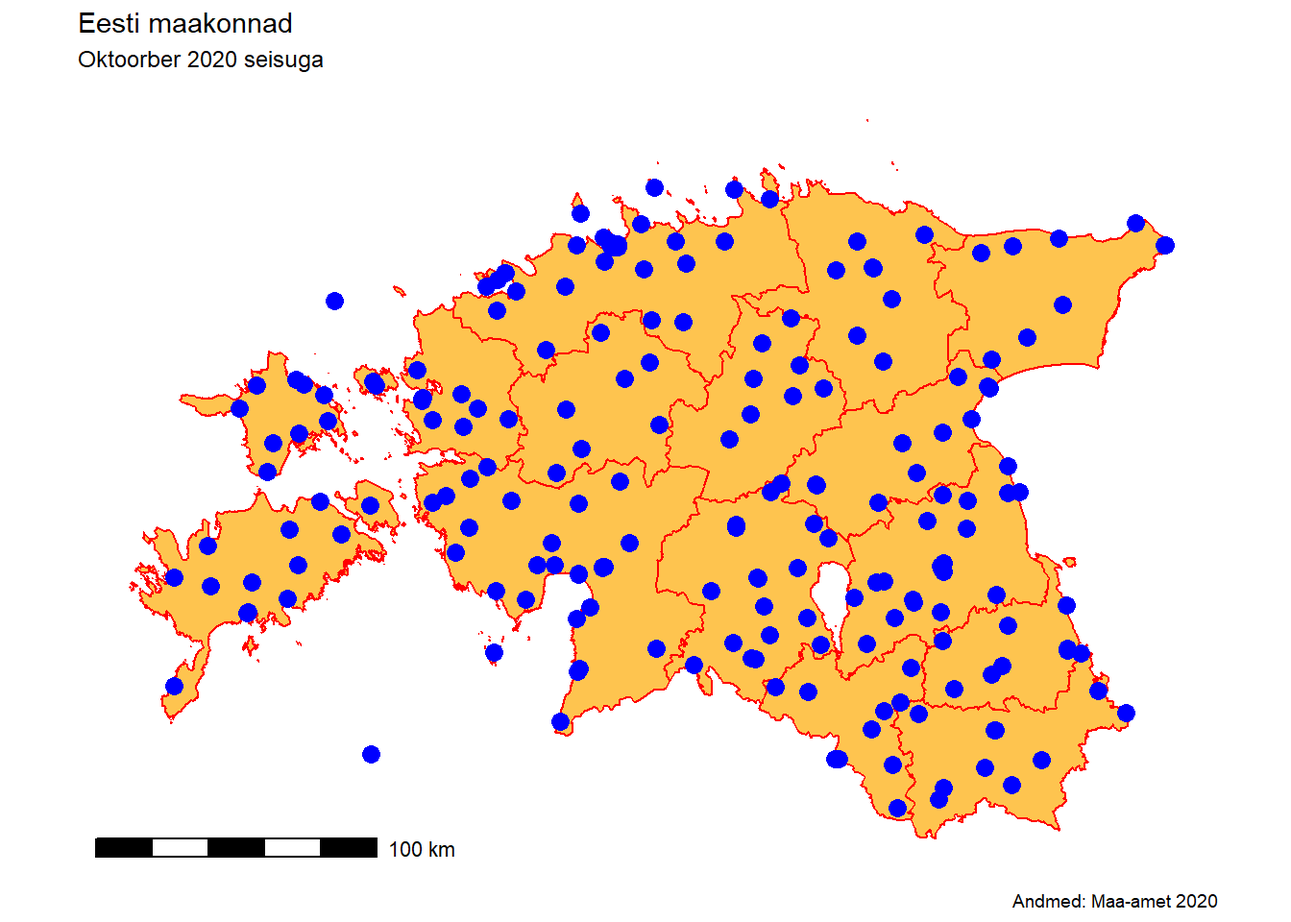
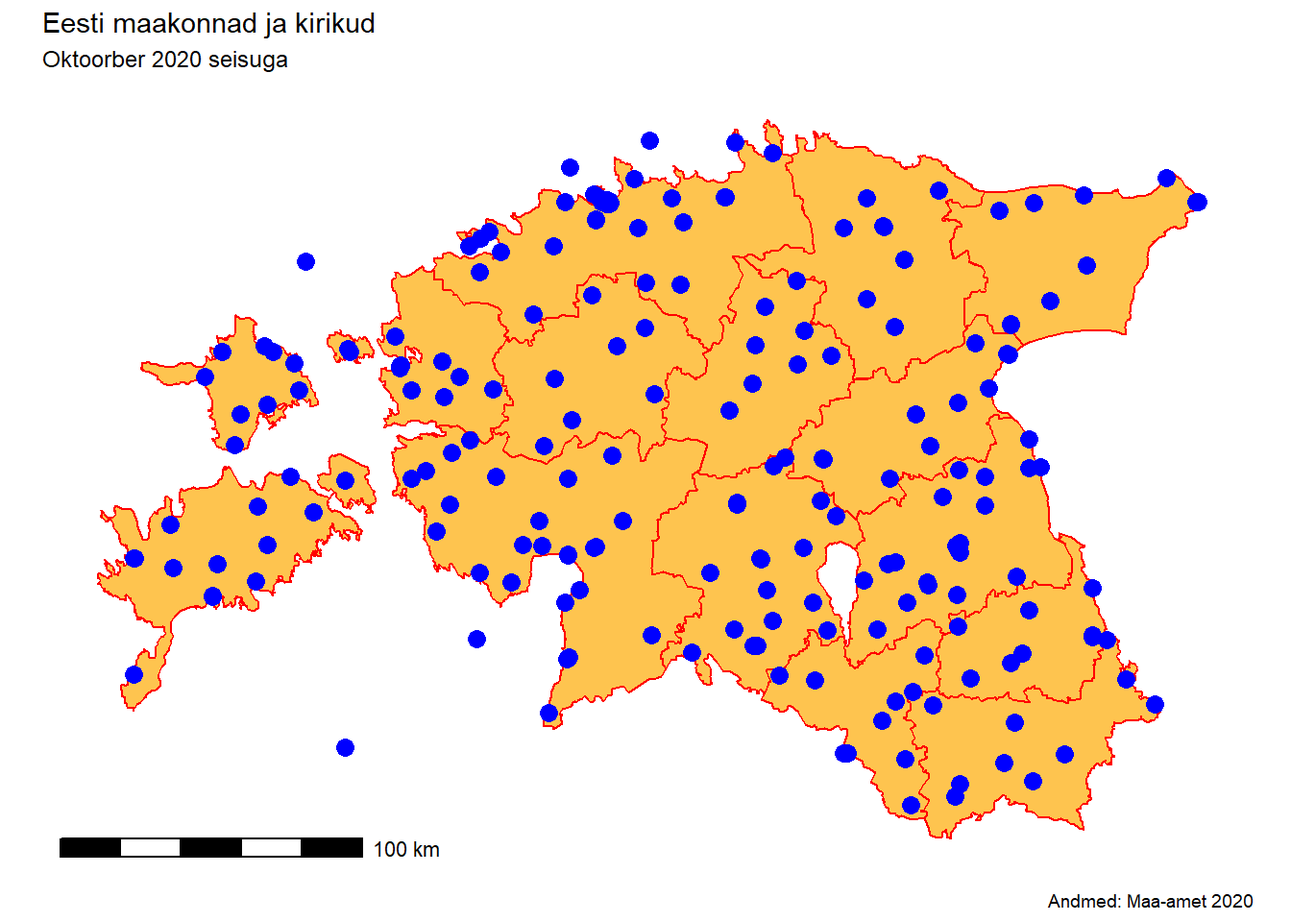
praktikum 20 täiendusi

diff --git a/_book/r.html b/_book/r.html
@@ -31,7 +31,7 @@
   
   
 <link rel="prev" href="veebikaardid.html"/>
-<link rel="next" href="kirjandus.html"/>
+<link rel="next" href="r2.html"/>
 <script src="libs/jquery-2.2.3/jquery.min.js"></script>
 <link href="libs/gitbook-2.6.7/css/style.css" rel="stylesheet" />
 <link href="libs/gitbook-2.6.7/css/plugin-table.css" rel="stylesheet" />
@@ -310,11 +310,18 @@ code span.wa { color: #60a0b0; font-weight: bold; font-style: italic; } /* Warni
 <li class="chapter" data-level="20.5" data-path="r.html"><a href="r.html#ruumiandmed"><i class="fa fa-check"></i><b>20.5</b> Ruumiandmed</a><ul>
 <li class="chapter" data-level="20.5.1" data-path="qgis-1.html"><a href="qgis-1.html#andmete-avamine"><i class="fa fa-check"></i><b>20.5.1</b> Andmete avamine</a></li>
 <li class="chapter" data-level="20.5.2" data-path="r.html"><a href="r.html#kaartide-tegemine"><i class="fa fa-check"></i><b>20.5.2</b> Kaartide tegemine</a></li>
-<li class="chapter" data-level="20.5.3" data-path="r.html"><a href="r.html#andmete-filtreerimine"><i class="fa fa-check"></i><b>20.5.3</b> Andmete filtreerimine</a></li>
+<li class="chapter" data-level="20.5.3" data-path="r.html"><a href="r.html#andmete-filtreerimine-ja-ühendamine"><i class="fa fa-check"></i><b>20.5.3</b> Andmete filtreerimine ja ühendamine</a></li>
 <li class="chapter" data-level="20.5.4" data-path="ruumiobjektid.html"><a href="ruumiobjektid.html#ülesanne"><i class="fa fa-check"></i><b>20.5.4</b> Ülesanne</a></li>
 <li class="chapter" data-level="20.5.5" data-path="r.html"><a href="r.html#kaartide-eksportimine"><i class="fa fa-check"></i><b>20.5.5</b> Kaartide eksportimine</a></li>
 </ul></li>
 <li class="chapter" data-level="20.6" data-path="r.html"><a href="r.html#r-i-raamatud-ja-juhendid"><i class="fa fa-check"></i><b>20.6</b> R-i raamatud ja juhendid</a></li>
+</ul></li>
+<li class="chapter" data-level="21" data-path="r2.html"><a href="r2.html"><i class="fa fa-check"></i><b>21</b> Ruumiandmete analüüs R-iga 2</a><ul>
+<li class="chapter" data-level="21.1" data-path="r2.html"><a href="r2.html#pakettide-laadimine-ja-andmete-töötlemine"><i class="fa fa-check"></i><b>21.1</b> Pakettide laadimine ja andmete töötlemine</a></li>
+<li class="chapter" data-level="21.2" data-path="r2.html"><a href="r2.html#kasutajaliides"><i class="fa fa-check"></i><b>21.2</b> Kasutajaliides</a></li>
+<li class="chapter" data-level="21.3" data-path="r2.html"><a href="r2.html#server"><i class="fa fa-check"></i><b>21.3</b> Server</a></li>
+<li class="chapter" data-level="21.4" data-path="r2.html"><a href="r2.html#rakenduse-kokkupanemine"><i class="fa fa-check"></i><b>21.4</b> Rakenduse kokkupanemine</a></li>
+<li class="chapter" data-level="21.5" data-path="r2.html"><a href="r2.html#rakenduse-jagamine"><i class="fa fa-check"></i><b>21.5</b> Rakenduse jagamine</a></li>
 </ul></li>
 <li class="chapter" data-level="" data-path="kirjandus.html"><a href="kirjandus.html"><i class="fa fa-check"></i>Kirjandus</a></li>
 </ul>
@@ -339,19 +346,19 @@ code span.wa { color: #60a0b0; font-weight: bold; font-style: italic; } /* Warni
 <p>Lae Moodle’ist alla tänase praktikumi fail, paki see lahti ning aseta need failid enda selle kursuse kausta. Ava Rstudio ning seal ava fail <em>ruumiandmed_r.rmd</em>, valides ülevalt vasakust nurgast <em>File -&gt; Open file</em>.</p>
 <div id="pakettide-installimine" class="section level2">
 <h2><span class="header-section-number">20.1</span> Pakettide installimine</h2>
-<p>Kuna paljud teist kasutavad R-i esimest korda, siis kõigepealt installime vajalikud paketid. Selleks jooksuta sin all olev kood, klikkides kooditüki paremal üleval nurgas rohelisele nupule (<em>Run current chunk</em>). Selle tulemusena tõmbab R kõik vajalikud paketid ja installib need. Sellega võib minna natuke aga. Kui protsess on lõppenud, siis kaob konsooli paremas nurgas väike punane STOP-märk. Paketid tuleb alati uuesti laadida, kui oled vahepeal Rstudio sulgenud.</p>
+<p>Kuna paljud teist kasutavad R-i esimest korda, siis kõigepealt installime vajalikud paketid. Selleks jooksuta siin all olev kood, klikkides kooditüki paremal üleval nurgas rohelisele nupule (<em>Run current chunk</em>). Selle tulemusena tõmbab R kõik vajalikud paketid ja installib need. Sellega võib minna natuke aga. Kui protsess on lõppenud, siis kaob konsooli paremas nurgas väike punane STOP-märk. Paketid tuleb alati uuesti laadida, kui oled vahepeal Rstudio sulgenud.</p>
 <p>Kui paketid on installitud, siis tuleb teha veel üks väike muudatus, et faili vaatamine oleks mugavam. Nimelt ei peaks koodi jooksutamise tulemust kohe siin koodi all näitama. Selleks <em>Tools -&gt; Global options -&gt; Rmarkdown</em> ning võta ära linnuke <em>Show output inline for all Rmarkdown documents</em> eest ja seejärel all servas <em>OK</em>.</p>
-<p>Viimase asjana paneme paika <em>Working directory</em>. Siin kasutame seda peamiselt selleks, et saaks andmeid lugeda lähtuvalt nende asukohast seoses selle faili asukohaga. Sellepärast palusingi teil panna see fail samasse kausta, kus on ka teie andmete kaust. <em>Workind directory</em> seadistamiseks ülevalt menüüribalt <em>Session -&gt; Set working directory -&gt; To source file location</em>. See järel jooksuta alljärgnev kood. Kui kõik on õigesti, peaks tulemuseks olema selle faili asukoht. Minul on see näiteks “C:/teaching/geohumcourse”.</p>
+<p>Viimase asjana paneme paika <em>Working directory</em>. Siin kasutame seda peamiselt selleks, et saaks andmeid lugeda lähtuvalt nende asukohast seoses selle faili asukohaga. Sellepärast palusingi teil panna see fail samasse kausta, kus on ka teie andmete kaust. <em>Working directory</em> seadistamiseks ülevalt menüüribalt <em>Session -&gt; Set working directory -&gt; To source file location</em>. See järel jooksuta alljärgnev kood. Kui kõik on õigesti, peaks tulemuseks olema selle faili asukoht. Minul on see näiteks “C:/teaching/geohumcourse”.</p>
 </div>
 <div id="miks-teha-kaarte-koodipõhiselt" class="section level2">
 <h2><span class="header-section-number">20.2</span> Miks teha kaarte koodipõhiselt?</h2>
-<p>Miks vaevata ennast ja võib-olla ka teisi koodi õppima, kui saame (võrdlemisi) samasuguseid kaarte teha ka GISis või mõnes veebirakenduses nagu näiteks MapBox? Miks üldse midagi koodipõhiselt teha? Meie näeme, et sel on mitu eelist. Erinevalt nn musta kasti ja <em>point-and-click</em> tarkvaradest jääb koodi kirjutades selge jälg sellest, mida tehti. See aitab nii endal kui ka teistel paremini mõista, kuidas antud tulemuseni jõuti. See suhestub eelkõige teadusmaailmas <strong>reprodutseeritavuse</strong> teemadega. Samas lihtsustab kood enda tööprotsesse oluliselt. Eriti juhtudel, kus andmed võivad vahepeal täieneda või tuleb teha mitmeid sarnaseid asju. Näiteks olukord, kus tegid lõputöö või publikatsiooni jaoks kaardi ning kuu aega hiljem palub juhendaja või toimetaja paari detaili kaardil muuta. Ülejäänud kaart aga peaks jääma täpselt samaks. Samas oled vahepeal aga rohkelt enda ruumiandmetega edasi tegelenud. Millised olid täpselt kasutatud andmed, värvid, joone paksus, mõõtkava, mudeldamiseks kasutatud meetod jpm? Koodis on see info aga kõik olemas. Niisiis pole tarvis kogu kaarditegemise protsessi uuesti läbi teha, vaid muuta koodis vajalikud detailid.</p>
+<p>Miks vaevata ennast ja võib-olla ka teisi koodi õppima, kui saame (võrdlemisi) samasuguseid kaarte teha ka QGISis või mõnes veebirakenduses, nagu näiteks MapBox? Miks üldse midagi koodipõhiselt teha? Meie näeme, et sel on mitu eelist. Erinevalt nn musta kasti ja <em>point-and-click</em> tarkvaradest jääb koodi kirjutades selge jälg sellest, mida tehti. See aitab nii endal kui ka teistel paremini mõista, kuidas antud tulemuseni jõuti. See suhestub eelkõige teadusmaailmas <strong>reprodutseeritavuse</strong> teemadega. Samas lihtsustab kood enda tööprotsesse oluliselt. Eriti juhtudel, kus andmed võivad vahepeal täieneda või tuleb teha mitmeid sarnaseid asju. Näiteks olukord, kus tegid lõputöö või publikatsiooni jaoks kaardi ning kuu aega hiljem palub juhendaja või toimetaja paari detaili kaardil muuta. Ülejäänud kaart aga peaks jääma täpselt samaks. Samas oled vahepeal aga rohkelt enda ruumiandmetega edasi tegelenud. Millised olid täpselt kasutatud andmed, värvid, joone paksus, mõõtkava, mudeldamiseks kasutatud meetod jpm? Koodis on see info kõik olemas. Niisiis pole tarvis kogu kaarditegemise protsessi uuesti läbi teha, vaid muuta koodis vajalikud detailid.</p>
 </div>
 <div id="r-rstudio-ja-rmarkdown" class="section level2">
 <h2><span class="header-section-number">20.3</span> R, Rstudio ja Rmarkdown</h2>
-<p><a href="https://www.r-project.org/"><strong>R</strong></a> on vabavaraline väga võimas programmeerimiskeel ja keskkond andmeanalüüsiks, statistilisteks arvutusteks ning andmete visualiseerimiseks. R pakub väga palju statistilisi ja graafilisi meetodeid ning hästi laiendatav. Üks selle tugevaid külgi on just võimalus teha kõrge kvaliteediga jooniseid ja graafikuid. Kuna tegu on koodipõhise tarkvaraga, siis annab see kasutajatele suhteliselt vabad käed ning võimaldab vastavalt vajadusele luua uusi funktsioone.</p>
+<p><a href="https://www.r-project.org/"><strong>R</strong></a> on vabavaraline väga võimas programmeerimiskeel ja keskkond andmeanalüüsiks, statistilisteks arvutusteks ning andmete visualiseerimiseks. R pakub väga palju statistilisi ja graafilisi meetodeid ning on hästi laiendatav. Üks selle tugevaid külgi on just võimalus teha kõrge kvaliteediga jooniseid ja graafikuid. Kuna tegu on koodipõhise tarkvaraga, siis annab see kasutajatele suhteliselt vabad käed ning võimaldab vastavalt vajadusele luua uusi funktsioone.</p>
 <p><strong>Paketid</strong> ehk teegid (<em>package</em>) on R-i põhiline jagatava koodi nn ühik. Pakettide eesmärk on lisada mingeid funktsioone. Paljud paketid tulevad R-iga kohe kaasa, aga üldiselt peab neid juurde installima. Hetkel on R-i kodulehel <a href="http://cran.r-project.org/">cran.r-project.org/</a> üle 14000 paketi. Pakett koosneb koodist, andmetest, dokumentatsioonist ning testidest ja seda on lihtne teistega jagada.</p>
-<p><a href="https://rstudio.com/"><strong>Rstudio</strong></a> on R-i integreeritud arenduskeskkond (<em>integrated development environment</em> ehk <em>IDE</em>). See koosneb konsoolist, tekstiredaktorist ning tööriistadest graafikute tegemisest, koodi silumiseks, kogu keskkonna ja ajaloo majandamiseks jpm. Rstudiost on nii vabavaraline kui ka kommertsversioon. Meie kasutame vabavaralist.</p>
+<p><a href="https://rstudio.com/"><strong>RStudio</strong></a> on R-i integreeritud arenduskeskkond (<em>integrated development environment</em> ehk <em>IDE</em>). See koosneb konsoolist, tekstiredaktorist ning tööriistadest graafikute tegemiseks, koodi silumiseks, kogu keskkonna ja ajaloo majandamiseks jpm. RStudiost on nii vabavaraline kui ka kommertsversioon. Meie kasutame vabavaralist.</p>
 <div class="figure" style="text-align: center"><span id="fig:20rstudioide"></span>
 <img src="imgs/20_rstudio_ui.png" alt="Rstudio kasutajaliidese peamised osad ([viide](https://sfg-ucsb.github.io/fishery-manageR/getting-started-with-rstudio.html))." width="75%" />
 <p class="caption">
@@ -361,7 +368,7 @@ Figure 20.1: Rstudio kasutajaliidese peamised osad (<a href="https://sfg-ucsb.gi
 <p><a href="https://rmarkdown.rstudio.com/"><strong>Rmarkdown</strong></a> on formaat tavalise teksti ning koodi kombineerimiseks, mis seetõttu võimaldab kirjutada täielikult reprodutseeritavaid artikleid, raamatuid, raporteid ning koostada veebilehti, interaktiivseid lahendusi jpm. Nii see juhend kui ka kogu kursuse materjalid on kirjutatud Rmarkdownis.</p>
 <p>Rmarkdown koosnebki tavaliselt tekstist nagu see siin.</p>
 <div class="sourceCode" id="cb1"><pre class="sourceCode r"><code class="sourceCode r"><span id="cb1-1"><a href="r.html#cb1-1"></a><span class="co"># Ning kooditükkidest nagu see siin. Kooditükid on Rstudios kolme ` vahel.</span></span>
-<span id="cb1-2"><a href="r.html#cb1-2"></a><span class="co"># Trellid teksti tähistavad kommentaari ning seda koodi jooksutamisel ei arvestata.</span></span>
+<span id="cb1-2"><a href="r.html#cb1-2"></a><span class="co"># Trellids tähistavad kommentaari ning seda koodi jooksutamisel ei arvestata.</span></span>
 <span id="cb1-3"><a href="r.html#cb1-3"></a><span class="co"># See on lihtsalt inimesele lugemiseks.</span></span></code></pre></div>
 <div id="kood" class="section level3">
 <h3><span class="header-section-number">20.3.1</span> Kood</h3>
@@ -379,18 +386,18 @@ Figure 20.1: Rstudio kasutajaliidese peamised osad (<a href="https://sfg-ucsb.gi
 <span id="cb6-2"><a href="r.html#cb6-2"></a>y =<span class="st"> </span><span class="dv">4</span></span>
 <span id="cb6-3"><a href="r.html#cb6-3"></a>a <span class="op">+</span><span class="st"> </span>b <span class="op">+</span><span class="st"> </span>x <span class="op">+</span><span class="st"> </span>y</span></code></pre></div>
 <pre><code>## [1] 16</code></pre>
-<p>Kombineerime funksiooniga <code>c</code> väärtustest nimekirja ning liidame funktsiooniga <code>sum</code> kõik nimekirja väärtused kokku.</p>
+<p>Funktsiooni puhul kirjutatakse kõigepealt nimi ning sellele järgnevad sulud, kus saab funktsiooni parameetritele väärtuseid anda. Kombineerime funksiooniga <code>c</code> väärtustest nimekirja ning liidame funktsiooniga <code>sum</code> kõik nimekirja väärtused kokku.</p>
 <div class="sourceCode" id="cb8"><pre class="sourceCode r"><code class="sourceCode r"><span id="cb8-1"><a href="r.html#cb8-1"></a>nimekiri =<span class="st"> </span><span class="kw">c</span>(a, b, x, y)</span>
 <span id="cb8-2"><a href="r.html#cb8-2"></a>nimekiri</span></code></pre></div>
 <pre><code>## [1] 3 7 2 4</code></pre>
-<div class="sourceCode" id="cb10"><pre class="sourceCode r"><code class="sourceCode r"><span id="cb10-1"><a href="r.html#cb10-1"></a><span class="kw">sum</span>(nimekiri) </span></code></pre></div>
+<div class="sourceCode" id="cb10"><pre class="sourceCode r"><code class="sourceCode r"><span id="cb10-1"><a href="r.html#cb10-1"></a><span class="kw">sum</span>(nimekiri)</span></code></pre></div>
 <pre><code>## [1] 16</code></pre>
 </div>
 </div>
 <div id="joonised-ja-kaardid-r-is" class="section level2">
 <h2><span class="header-section-number">20.4</span> Joonised ja kaardid R-is</h2>
 <p>Ggplot2 on väga populaarne R-i pakett andmete visualiseerimiseks. See on ka osa Tidyverse’i pakettide kogumiku osa. Sellega saab teha nii kõiksugu jooniseid kui ka kaarte. Pakett põhine kontseptsioonil <em>Grammar of Graphics</em>, mis võimaldab luua jooniseid kombineerides erinevaid komponente. Samas ei ole tegemist mingi etteantud graafikute valikuga, vaid neid saab kombineerida ja muuta vastavalt oma vajadustele. Sisuliselt toimub komponentide lisamine kihtidena pisut sarnaselt sellele, kuidas oleme siiani QGISi teinud. Kõigepealt lisatakse toorandmed, ning seejärel kokkuvõtted neist ja kõikvõimalikud märkused ja lisad.</p>
-<p>ggplot paketi põhielemendid:</p>
+<p>Ggplot2 paketi põhielemendid:</p>
 <ol style="list-style-type: decimal">
 <li>andmed:
 andmestik, mida tahetakse kujutada</li>
@@ -412,12 +419,12 @@ visuaalse poole vaikimisi sätted. Taust, font, teljed jne.</li>
 <div id="andmete-avamine" class="section level3">
 <h3><span class="header-section-number">20.5.1</span> Andmete avamine</h3>
 <p>Andmete avamiseks kasutame vastavalt andmestikule sobivaid funktsioone. Tabelandmestiku puhul nt <code>read_csv</code> ja vektorkujul ruumiandmete puhul <code>st_read</code>.</p>
-<div class="sourceCode" id="cb12"><pre class="sourceCode r"><code class="sourceCode r"><span id="cb12-1"><a href="r.html#cb12-1"></a>maakonnad  =<span class="st"> </span><span class="kw">st_read</span>(<span class="st">&quot;./andmed/maakond_20201001.shp&quot;</span>)</span>
+<div class="sourceCode" id="cb12"><pre class="sourceCode r"><code class="sourceCode r"><span id="cb12-1"><a href="r.html#cb12-1"></a>maakonnad  =<span class="st"> </span><span class="kw">st_read</span>(<span class="st">&quot;./andmed/maakond_lihtsustatud.gpkg&quot;</span>)</span>
 <span id="cb12-2"><a href="r.html#cb12-2"></a><span class="co"># Seda koodi võiks lugeda järgmiselt. *Ava selle Rmarkdown failiga samas kaustas </span></span>
 <span id="cb12-3"><a href="r.html#cb12-3"></a><span class="co"># olevast kaustast *andmed* fail maakond_20201001.shp ja anna sellele nimeks maakonnad.</span></span>
 <span id="cb12-4"><a href="r.html#cb12-4"></a></span>
 <span id="cb12-5"><a href="r.html#cb12-5"></a>kirikud =<span class="st"> </span><span class="kw">st_read</span>(<span class="st">&quot;./andmed/kirikud.gpkg&quot;</span>)</span>
-<span id="cb12-6"><a href="r.html#cb12-6"></a>malestised =<span class="st"> </span><span class="kw">st_read</span>(<span class="st">&quot;./andmed/kultuurimalestised.shp&quot;</span>)</span>
+<span id="cb12-6"><a href="r.html#cb12-6"></a>malestised =<span class="st"> </span><span class="kw">st_read</span>(<span class="st">&quot;./andmed/kultuurimalestised.gpkg&quot;</span>)</span>
 <span id="cb12-7"><a href="r.html#cb12-7"></a></span>
 <span id="cb12-8"><a href="r.html#cb12-8"></a><span class="co"># avame Saaremaa ja Tartumaa asustuse kihid. </span></span>
 <span id="cb12-9"><a href="r.html#cb12-9"></a>saare_asustus =<span class="st"> </span><span class="kw">st_read</span>(<span class="st">&quot;./andmed/saaremaa_asustus.gpkg&quot;</span>)</span>
@@ -436,17 +443,17 @@ visuaalse poole vaikimisi sätted. Taust, font, teljed jne.</li>
 <span id="cb14-4"><a href="r.html#cb14-4"></a>            <span class="dt">fill =</span> <span class="st">&quot;#fec44f&quot;</span>) <span class="op">+</span><span class="st">                           </span></span>
 <span id="cb14-5"><a href="r.html#cb14-5"></a><span class="st">    </span><span class="kw">geom_sf</span>(<span class="dt">data =</span> kirikud, <span class="dt">color =</span> <span class="st">&quot;blue&quot;</span>, <span class="dt">size =</span> <span class="dv">3</span>) <span class="op">+</span></span>
 <span id="cb14-6"><a href="r.html#cb14-6"></a><span class="st">    </span><span class="kw">coord_sf</span>(<span class="dt">crs =</span> <span class="dv">3301</span>) <span class="op">+</span></span>
-<span id="cb14-7"><a href="r.html#cb14-7"></a><span class="st">    </span><span class="kw">annotation_scale</span>(<span class="dt">location =</span> <span class="st">&quot;bl&quot;</span>) <span class="op">+</span></span>
-<span id="cb14-8"><a href="r.html#cb14-8"></a><span class="st">    </span><span class="kw">labs</span>(</span>
-<span id="cb14-9"><a href="r.html#cb14-9"></a>        <span class="dt">title =</span> <span class="st">&quot;Eesti maakonnad&quot;</span>,</span>
+<span id="cb14-7"><a href="r.html#cb14-7"></a><span class="st">    </span><span class="kw">annotation_scale</span>(<span class="dt">location =</span> <span class="st">&quot;bl&quot;</span>) <span class="op">+</span><span class="st"> </span><span class="co"># </span></span>
+<span id="cb14-8"><a href="r.html#cb14-8"></a><span class="st">    </span><span class="kw">labs</span>( <span class="co"># Lisame pealkirja ja muu olulise teksti</span></span>
+<span id="cb14-9"><a href="r.html#cb14-9"></a>        <span class="dt">title =</span> <span class="st">&quot;Eesti maakonnad ja kirikud&quot;</span>,</span>
 <span id="cb14-10"><a href="r.html#cb14-10"></a>        <span class="dt">subtitle =</span> <span class="st">&quot;Oktoorber 2020 seisuga&quot;</span>,</span>
 <span id="cb14-11"><a href="r.html#cb14-11"></a>        <span class="dt">caption =</span> <span class="st">&quot;Andmed: Maa-amet 2020&quot;</span></span>
 <span id="cb14-12"><a href="r.html#cb14-12"></a>    ) <span class="op">+</span></span>
 <span id="cb14-13"><a href="r.html#cb14-13"></a><span class="st">    </span><span class="kw">theme_map</span>()</span></code></pre></div>
 <p><img src="HVHV_00_001_geoinfosysteemid_files/figure-html/unnamed-chunk-10-1.png" width="672" /></p>
 </div>
-<div id="andmete-filtreerimine" class="section level3">
-<h3><span class="header-section-number">20.5.3</span> Andmete filtreerimine</h3>
+<div id="andmete-filtreerimine-ja-ühendamine" class="section level3">
+<h3><span class="header-section-number">20.5.3</span> Andmete filtreerimine ja ühendamine</h3>
 <p>Ruumiandmete filtreerimine, ühendamine jms käib R-is valdavalt samamoodi nagu teiste andmete puhul. Selleks on meil kasutada <code>dplyr</code> pakett, mis võimaldab paari funktsiooni abil suure osa andmetöötlusest ära teha.</p>
 <p>Soovime näiteks teha kaarti Saaremaa asustusüksustest, mille esmamainimine on olnud hiljemalt aastal 1500.</p>
 <div class="sourceCode" id="cb15"><pre class="sourceCode r"><code class="sourceCode r"><span id="cb15-1"><a href="r.html#cb15-1"></a><span class="co"># Filtreerime maakondadest Saaremaa välja </span></span>
@@ -466,27 +473,65 @@ visuaalse poole vaikimisi sätted. Taust, font, teljed jne.</li>
 <span id="cb16-4"><a href="r.html#cb16-4"></a>    )</span></code></pre></div>
 <p>Teeme neist kaardi.</p>
 <div class="sourceCode" id="cb17"><pre class="sourceCode r"><code class="sourceCode r"><span id="cb17-1"><a href="r.html#cb17-1"></a><span class="kw">ggplot</span>() <span class="op">+</span></span>
-<span id="cb17-2"><a href="r.html#cb17-2"></a><span class="st">    </span><span class="kw">geom_sf</span>(saaremaa, <span class="dt">mapping =</span> ggplot2<span class="op">::</span><span class="kw">aes</span>(),</span>
+<span id="cb17-2"><a href="r.html#cb17-2"></a><span class="st">    </span><span class="kw">geom_sf</span>(saaremaa, <span class="dt">mapping =</span> ggplot2<span class="op">::</span><span class="kw">aes</span>(), </span>
 <span id="cb17-3"><a href="r.html#cb17-3"></a>            <span class="dt">show.legend =</span> T) <span class="op">+</span></span>
 <span id="cb17-4"><a href="r.html#cb17-4"></a><span class="st">    </span><span class="kw">geom_sf</span>(<span class="dt">data =</span> saare_asustus_vana,</span>
-<span id="cb17-5"><a href="r.html#cb17-5"></a>            <span class="dt">mapping =</span> ggplot2<span class="op">::</span><span class="kw">aes</span>(<span class="dt">shape =</span> asustusyksus), <span class="dt">size =</span> <span class="dv">3</span>,</span>
+<span id="cb17-5"><a href="r.html#cb17-5"></a>            <span class="dt">mapping =</span> ggplot2<span class="op">::</span><span class="kw">aes</span>(<span class="dt">shape =</span> asustusyksus, <span class="dt">color =</span> esmamainimine), <span class="dt">size =</span> <span class="dv">3</span>,</span>
 <span id="cb17-6"><a href="r.html#cb17-6"></a>            ) <span class="op">+</span></span>
 <span id="cb17-7"><a href="r.html#cb17-7"></a><span class="st">    </span><span class="kw">coord_sf</span>(<span class="dt">crs =</span> <span class="dv">3301</span>) <span class="op">+</span></span>
-<span id="cb17-8"><a href="r.html#cb17-8"></a><span class="st">    </span><span class="kw">annotation_scale</span>(<span class="dt">location =</span> <span class="st">&quot;br&quot;</span>) <span class="op">+</span></span>
+<span id="cb17-8"><a href="r.html#cb17-8"></a><span class="st">    </span><span class="kw">annotation_scale</span>(<span class="dt">location =</span> <span class="st">&quot;br&quot;</span>) <span class="op">+</span><span class="st"> </span><span class="co"># lisame mõõtkava. &quot;br&quot; tähendam bottom right</span></span>
 <span id="cb17-9"><a href="r.html#cb17-9"></a><span class="st">    </span><span class="kw">labs</span>(</span>
 <span id="cb17-10"><a href="r.html#cb17-10"></a>        <span class="dt">title =</span> <span class="st">&quot;Saaremaa asustus aastani 1500&quot;</span>,</span>
 <span id="cb17-11"><a href="r.html#cb17-11"></a>        <span class="dt">caption =</span> <span class="st">&quot;Andmed: Maa-amet 2020, EKI Kohanimeraamat&quot;</span></span>
 <span id="cb17-12"><a href="r.html#cb17-12"></a>    ) <span class="op">+</span></span>
-<span id="cb17-13"><a href="r.html#cb17-13"></a><span class="st">    </span><span class="kw">theme_map</span>()</span></code></pre></div>
+<span id="cb17-13"><a href="r.html#cb17-13"></a><span class="st">    </span><span class="co"># peidame taustal oleva koordinaatteljestiku</span></span>
+<span id="cb17-14"><a href="r.html#cb17-14"></a><span class="st">    </span><span class="kw">theme</span>(<span class="dt">rect =</span> <span class="kw">element_blank</span>(), </span>
+<span id="cb17-15"><a href="r.html#cb17-15"></a>          <span class="dt">axis.text.x =</span> <span class="kw">element_blank</span>(), </span>
+<span id="cb17-16"><a href="r.html#cb17-16"></a>          <span class="dt">axis.text.y =</span> <span class="kw">element_blank</span>(), </span>
+<span id="cb17-17"><a href="r.html#cb17-17"></a>          <span class="dt">axis.ticks =</span> <span class="kw">element_blank</span>()</span>
+<span id="cb17-18"><a href="r.html#cb17-18"></a>    )</span></code></pre></div>
 <p><img src="HVHV_00_001_geoinfosysteemid_files/figure-html/unnamed-chunk-13-1.png" width="672" /></p>
+<p>Vaatame ka näidet, kuidas saab andmeid ühendada ja neist kokkuvõtteid teha. Näiteks
+soovime teha kaardi, mis näitaks kirikute arvu maakonnas. Kirikud on meil aga hetkel
+punktidena. Niisiis tuletame kirikute andmestikust kiriku arvu igas maakonnas ja
+ühendame selle maakondade kihiga</p>
+<div class="sourceCode" id="cb18"><pre class="sourceCode r"><code class="sourceCode r"><span id="cb18-1"><a href="r.html#cb18-1"></a><span class="co"># Grupeerime kirikute andmestiku tulba &quot;MK_NIMI&quot; alusel ja loeme kokku kirikud. </span></span>
+<span id="cb18-2"><a href="r.html#cb18-2"></a>kirikud_maakonniti =<span class="st"> </span>kirikud <span class="op">%&gt;%</span><span class="st"> </span></span>
+<span id="cb18-3"><a href="r.html#cb18-3"></a><span class="st">    </span><span class="kw">group_by</span>(MK_NIMI) <span class="op">%&gt;%</span><span class="st"> </span></span>
+<span id="cb18-4"><a href="r.html#cb18-4"></a><span class="st">    </span><span class="kw">summarise</span>(<span class="st">&quot;kirikuid&quot;</span> =<span class="st"> </span><span class="kw">n</span>())</span></code></pre></div>
+<pre><code>## `summarise()` ungrouping output (override with `.groups` argument)</code></pre>
+<div class="sourceCode" id="cb20"><pre class="sourceCode r"><code class="sourceCode r"><span id="cb20-1"><a href="r.html#cb20-1"></a><span class="co"># ühendame maakondade kihi just tehtud uue andmestikuga tulpade põhjal, kus on kirjas</span></span>
+<span id="cb20-2"><a href="r.html#cb20-2"></a><span class="co"># maakond. </span></span>
+<span id="cb20-3"><a href="r.html#cb20-3"></a>maakonnad_kirikutega =<span class="st"> </span>maakonnad <span class="op">%&gt;%</span><span class="st"> </span></span>
+<span id="cb20-4"><a href="r.html#cb20-4"></a><span class="st">    </span><span class="kw">st_join</span>(<span class="dt">x =</span> ., <span class="dt">y =</span> kirikud_maakonniti, <span class="dt">by =</span> <span class="kw">c</span>(<span class="dt">MNIMI =</span> <span class="st">&quot;MK_NIMI&quot;</span>))</span>
+<span id="cb20-5"><a href="r.html#cb20-5"></a></span>
+<span id="cb20-6"><a href="r.html#cb20-6"></a></span>
+<span id="cb20-7"><a href="r.html#cb20-7"></a><span class="co"># Paneme kokku kaardi ja määrame HEX koodidega värviskaala. </span></span>
+<span id="cb20-8"><a href="r.html#cb20-8"></a><span class="kw">ggplot</span>(maakonnad_kirikutega) <span class="op">+</span></span>
+<span id="cb20-9"><a href="r.html#cb20-9"></a><span class="st">    </span><span class="kw">geom_sf</span>(<span class="dt">mapping =</span> <span class="kw">aes</span>(<span class="dt">fill =</span> kirikuid)) <span class="op">+</span></span>
+<span id="cb20-10"><a href="r.html#cb20-10"></a><span class="st">    </span><span class="kw">scale_fill_gradient</span>(</span>
+<span id="cb20-11"><a href="r.html#cb20-11"></a>        <span class="dt">low =</span> <span class="st">&quot;#ffffcc&quot;</span>,</span>
+<span id="cb20-12"><a href="r.html#cb20-12"></a>        <span class="dt">high =</span> <span class="st">&quot;#fc4e2a&quot;</span>,</span>
+<span id="cb20-13"><a href="r.html#cb20-13"></a>        <span class="dt">space =</span> <span class="st">&quot;Lab&quot;</span>,</span>
+<span id="cb20-14"><a href="r.html#cb20-14"></a>        <span class="dt">na.value =</span> <span class="st">&quot;grey50&quot;</span>,</span>
+<span id="cb20-15"><a href="r.html#cb20-15"></a>        <span class="dt">guide =</span> <span class="st">&quot;colourbar&quot;</span>,</span>
+<span id="cb20-16"><a href="r.html#cb20-16"></a>        <span class="dt">aesthetics =</span> <span class="st">&quot;fill&quot;</span></span>
+<span id="cb20-17"><a href="r.html#cb20-17"></a>    ) <span class="op">+</span></span>
+<span id="cb20-18"><a href="r.html#cb20-18"></a><span class="st">    </span><span class="co"># peidame taustal oleva koordinaatteljestiku</span></span>
+<span id="cb20-19"><a href="r.html#cb20-19"></a><span class="st">    </span><span class="kw">theme</span>(<span class="dt">rect =</span> <span class="kw">element_blank</span>(), </span>
+<span id="cb20-20"><a href="r.html#cb20-20"></a>          <span class="dt">axis.text.x =</span> <span class="kw">element_blank</span>(), </span>
+<span id="cb20-21"><a href="r.html#cb20-21"></a>          <span class="dt">axis.text.y =</span> <span class="kw">element_blank</span>(), </span>
+<span id="cb20-22"><a href="r.html#cb20-22"></a>          <span class="dt">axis.ticks =</span> <span class="kw">element_blank</span>()</span>
+<span id="cb20-23"><a href="r.html#cb20-23"></a>    )</span></code></pre></div>
+<p><img src="HVHV_00_001_geoinfosysteemid_files/figure-html/unnamed-chunk-14-1.png" width="672" /></p>
 </div>
 <div id="ülesanne" class="section level3">
 <h3><span class="header-section-number">20.5.4</span> Ülesanne</h3>
-<p>Tee kaart, kus on kujutatud Tartu maakonna kõiki arheoloogia mälestisi. Kirjuta kood all olevasse kooditükki. Saad kombineerida täpselt sama koodi, mida varem kasutasime. Pead aga avama ka kihelkondade kihi ning mälestiste kihist filtreerima väärtused, kus tulbas <em>ARHEOLOOGI</em> on väärtuseks <em>Y</em>. Muuda värve ja suurusi vastavalt enda maitsele.</p>
+<p>Tee kaart, kus on kujutatud Tartu maakonna asustusüksusi, mille esmamainimine jääb Põhjasõja eelsesse aega. Kirjuta kood all olevasse kooditükki. Saad kombineerida täpselt sama koodi, mida varem kasutasime.</p>
 </div>
 <div id="kaartide-eksportimine" class="section level3">
 <h3><span class="header-section-number">20.5.5</span> Kaartide eksportimine</h3>
-<p>Kaarte saab eksportida paremal olevast <em>Plots</em> aknast valides <em>Export</em>. Samuti võib koodi lõppu lisada funktsiooni <code>ggsave("failinimi.jpg")</code>.</p>
+<p>Kaarte saab eksportida paremal olevast <em>Plots</em> aknast valides <em>Export</em>. Samuti võib koodi lõppu lisada funktsiooni <code>ggsave("failinimi.jpg")</code>. Seejärel salvestatakse fail <em>Working directory</em> asukohta, mida saad vaadata funktsiooniga <code>getwd()</code>.</p>
 </div>
 </div>
 <div id="r-i-raamatud-ja-juhendid" class="section level2">
@@ -494,7 +539,6 @@ visuaalse poole vaikimisi sätted. Taust, font, teljed jne.</li>
 <p><a href="https://r4ds.had.co.nz/">R for Data Science</a></p>
 <p><a href="https://geocompr.robinlovelace.net/">Geocomputation with R</a></p>
 <p><a href="https://rc2e.com/">R Cookbook</a></p>
-
 
 </div>
 </div>
@@ -504,7 +548,7 @@ visuaalse poole vaikimisi sätted. Taust, font, teljed jne.</li>
         </div>
       </div>
 <a href="veebikaardid.html" class="navigation navigation-prev " aria-label="Previous page"><i class="fa fa-angle-left"></i></a>
-<a href="kirjandus.html" class="navigation navigation-next " aria-label="Next page"><i class="fa fa-angle-right"></i></a>
+<a href="r2.html" class="navigation navigation-next " aria-label="Next page"><i class="fa fa-angle-right"></i></a>
     </div>
   </div>
 <script src="libs/gitbook-2.6.7/js/app.min.js"></script>

diff --git a/_book/libs/gitbook-2.6.7/js/plugin-sharing.js b/_book/libs/gitbook-2.6.7/js/plugin-sharing.js
@@ -23,7 +23,7 @@ gitbook.require(["gitbook", "lodash", "jQuery"], function(gitbook, _, $) {
             'icon': 'fa fa-twitter',
             'onClick': function(e) {
                 e.preventDefault();
-                window.open("http://twitter.com/intent/tweet?text="+encodeURIComponent(document.title)+"&url="+encodeURIComponent(location.href)+"&hashtags=rmarkdown,bookdown");
+                window.open("http://twitter.com/intent/tweet?text="+document.title+"&url="+encodeURIComponent(location.href)+"&hashtags=rmarkdown,bookdown");
             }
         },
         'linkedin': {

diff --git a/_book/libs/gitbook-2.6.7/css/plugin-bookdown.css b/_book/libs/gitbook-2.6.7/css/plugin-bookdown.css
@@ -90,7 +90,7 @@ div.theorem, div.lemma, div.corollary, div.proposition, div.conjecture {
 span.theorem, span.lemma, span.corollary, span.proposition, span.conjecture {
   font-style: normal;
 }
-div.proof>*:last-child:after {
+div.proof:after {
   content: "\25a2";
   float: right;
 }
